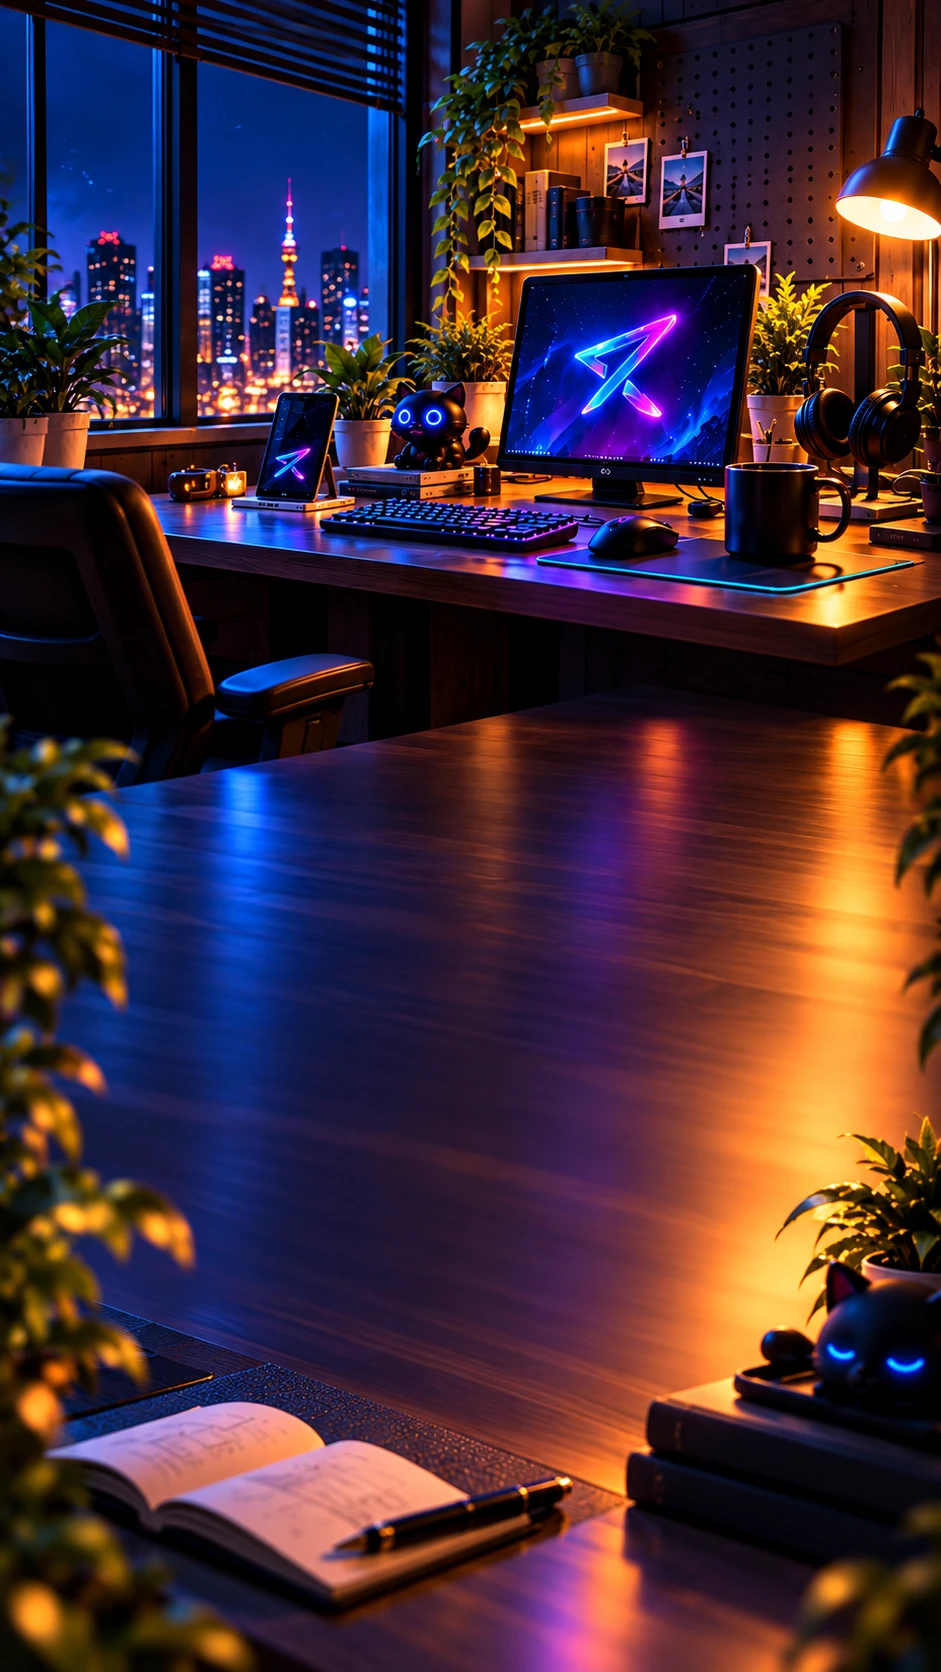
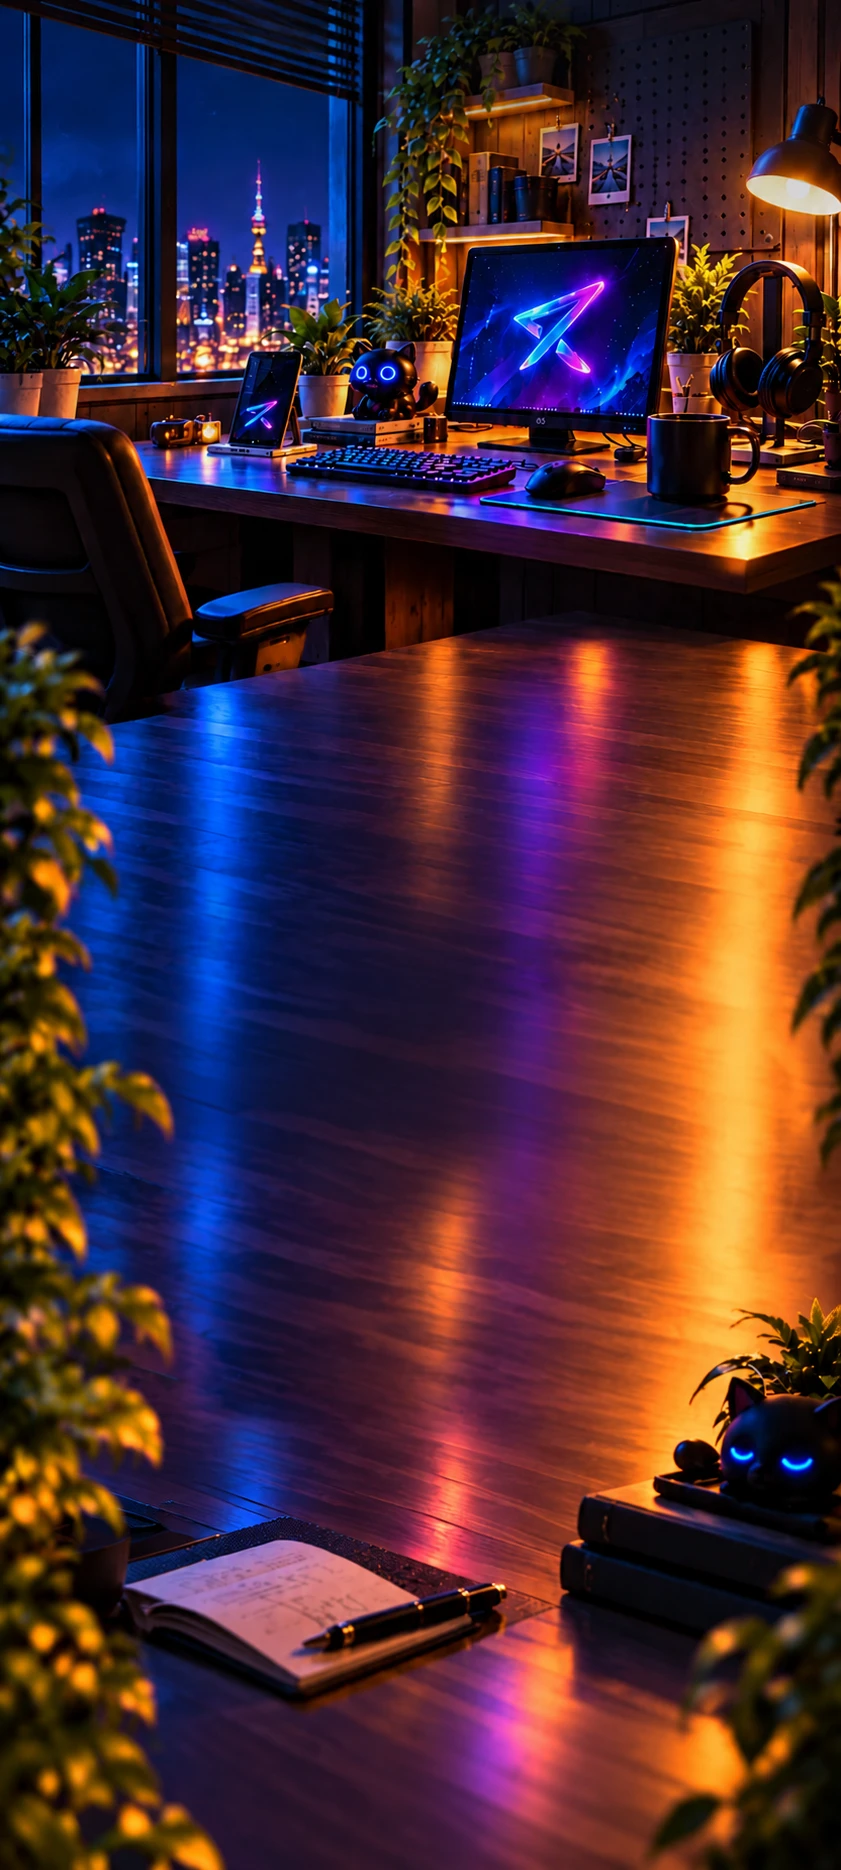
Match Desk hero to the reference mockup exactly
Swap in the taller hero photo (matches device screen aspect ratio) and
recompute the card grid's overlap position from the reference's pixel
measurements: cards start right after the chair, end with room to
spare before the notebook and cat figurine. Tighten card padding/gaps
and shorten the two-column subtitles so the grid's real height lands
where the mockup puts it, and the whole screen now fits one viewport
with no scroll, matching the target.

Claude-Session: https://claude.ai/code/session_01EqVgutfQDkbqqoUGPuBTxu

diff --git a/src/screens/Profile/Profile.tsx b/src/screens/Profile/Profile.tsx
@@ -19,10 +19,10 @@ interface NavItem {
 
 const NAV_ITEMS: NavItem[] = [
   { path: '/profile/account', icon: iconProfile, title: 'Profile', subtitle: 'Your account, devices and personal settings.', wide: true },
-  { path: '/profile/settings', icon: iconSettings, title: 'Settings', subtitle: 'App preferences and behavior.' },
-  { path: '/profile/appearance', icon: iconAppearance, title: 'Appearance', subtitle: 'Theme, colors, and visual style.' },
-  { path: '/profile/data-sync', icon: iconDataSync, title: 'Data & Sync', subtitle: 'Cloud sync, backup and storage.' },
-  { path: '/profile/privacy', icon: iconPrivacy, title: 'Privacy & Security', subtitle: 'Permissions and security options.' },
+  { path: '/profile/settings', icon: iconSettings, title: 'Settings', subtitle: 'App preferences.' },
+  { path: '/profile/appearance', icon: iconAppearance, title: 'Appearance', subtitle: 'Theme & visual style.' },
+  { path: '/profile/data-sync', icon: iconDataSync, title: 'Data & Sync', subtitle: 'Backup & cloud storage.' },
+  { path: '/profile/privacy', icon: iconPrivacy, title: 'Privacy & Security', subtitle: 'Permissions & security.' },
   { path: '/profile/about', icon: iconAbout, title: 'About Omni Hub', subtitle: 'Version, support and credits.', wide: true },
 ];
 

diff --git a/src/screens/Profile/Profile.css b/src/screens/Profile/Profile.css
@@ -10,7 +10,8 @@
   padding-top: calc(28px + var(--safe-top));
   padding-bottom: 28px;
   padding-inline: 20px;
-  aspect-ratio: 941 / 1672;
+  aspect-ratio: 841 / 1870;
+  margin-bottom: -151.26%;
   display: flex;
   align-items: flex-start;
   background-size: cover;
@@ -21,7 +22,7 @@
 .pf__hero-scrim {
   position: absolute;
   inset: 0;
-  background: linear-gradient(180deg, rgba(5, 8, 16, 0.6) 0%, rgba(5, 8, 16, 0.1) 15%, rgba(5, 8, 16, 0.05) 80%, var(--bg) 100%);
+  background: linear-gradient(180deg, rgba(5, 8, 16, 0.6) 0%, rgba(5, 8, 16, 0.1) 15%, rgba(5, 8, 16, 0) 40%);
 }
 
 .pf__hero-text {
@@ -59,7 +60,7 @@
 .pf__body--nav {
   position: relative;
   z-index: 1;
-  padding-top: 24px;
+  padding-top: 0;
   gap: 12px;
 }
 
@@ -68,7 +69,7 @@
   z-index: 1;
   display: grid;
   grid-template-columns: 1fr 1fr;
-  gap: 16px 12px;
+  gap: 10px;
   perspective: 900px;
   perspective-origin: 50% 0%;
   padding-bottom: 8px;
@@ -82,7 +83,7 @@
   gap: 10px;
   width: 100%;
   min-width: 0;
-  padding: 12px;
+  padding: 10px;
   text-align: left;
   overflow: hidden;
   background-color: rgba(10, 15, 26, 0.46);
